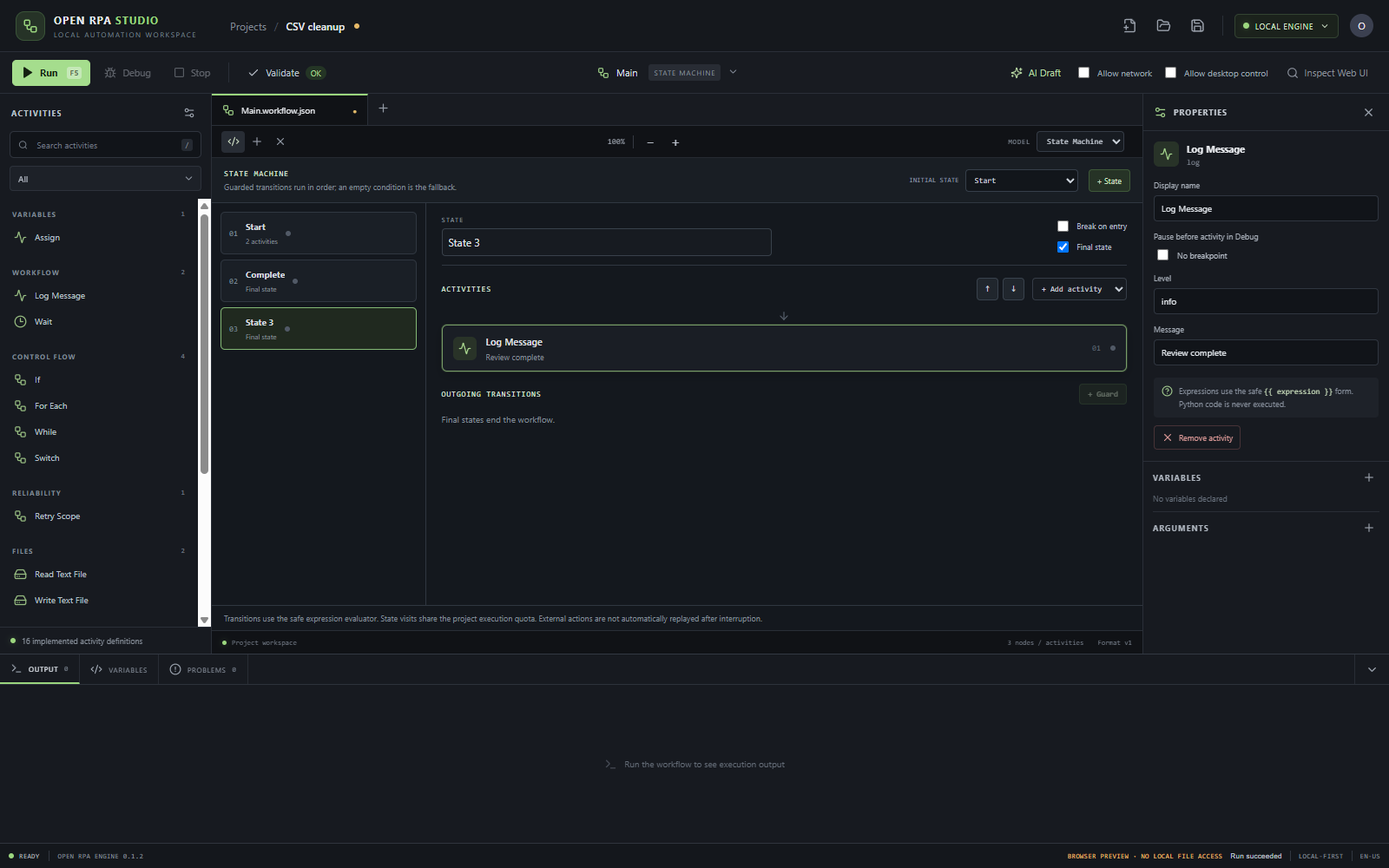
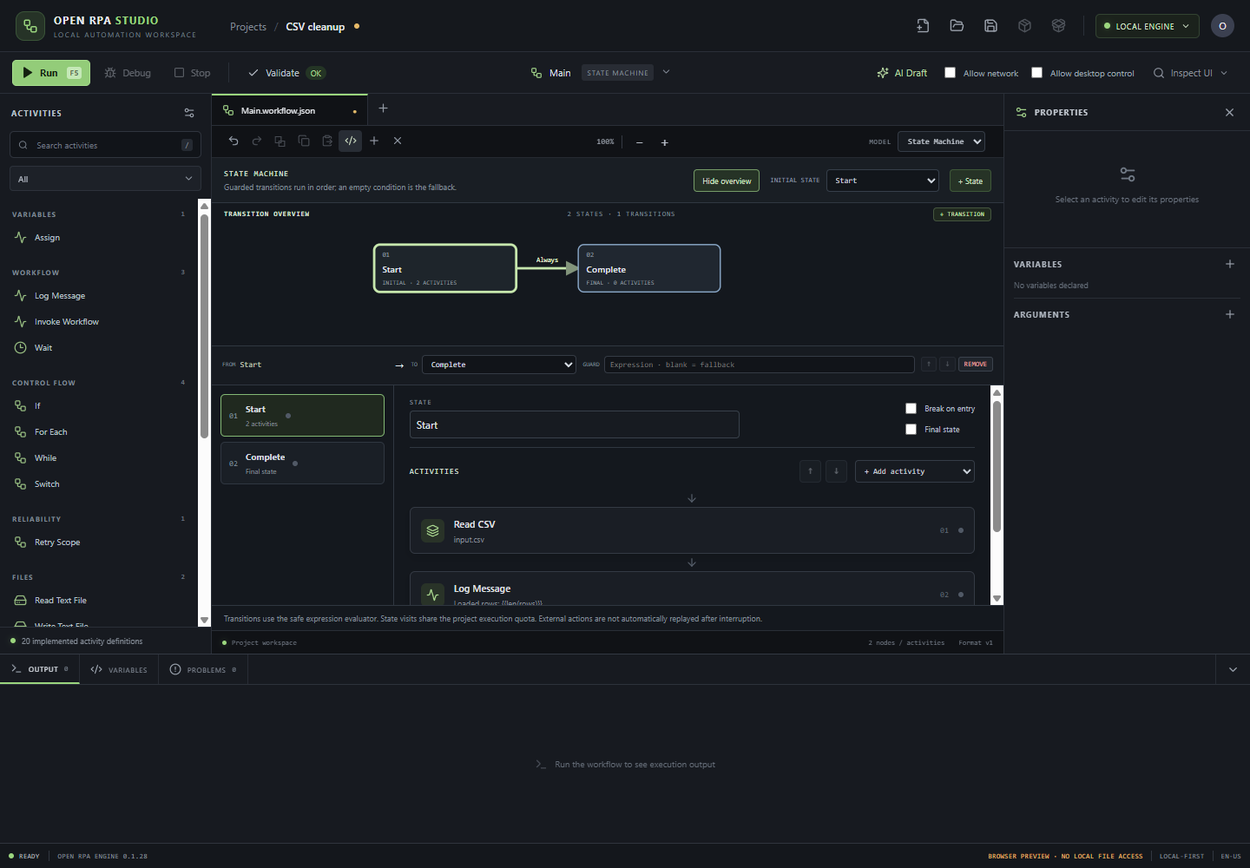
Edit state machine transitions in graph

diff --git a/src/studio/styles.css b/src/studio/styles.css
@@ -29,6 +29,8 @@
 .flowchart-minimap{position:fixed;z-index:8;right:28px;bottom:24px;width:196px;padding:8px;background:#151a20ee;border:1px solid #48535f;border-radius:7px;box-shadow:0 8px 28px #0009;backdrop-filter:blur(8px)}.flowchart-minimap-title{display:flex;justify-content:space-between;margin:0 0 6px;color:#a9d291;font:8px 'DM Mono',monospace;letter-spacing:1px}.flowchart-minimap-title span{color:#7f8995;letter-spacing:.4px}.flowchart-minimap svg{display:block;width:100%;height:112px;background-image:radial-gradient(#49515b 0.7px,transparent 0.7px);background-size:8px 8px;cursor:crosshair;outline:none}.flowchart-minimap svg:focus-visible{outline:1px solid #a9d291}.minimap-edges line{stroke:#788b70;stroke-width:9;opacity:.8}.minimap-node{fill:#39434f;stroke:#82909e;stroke-width:3}.minimap-node.start{fill:#416447;stroke:#83c476}.minimap-node.decision{fill:#665738;stroke:#e2ba73}.minimap-node.end{fill:#3f526b;stroke:#8fa9c9}.minimap-node.selected{stroke:#d0efb7;stroke-width:6}.minimap-viewport{fill:#94c67d19;stroke:#c4e6aa;stroke-width:5;pointer-events:none}
 .state-machine-overview{height:154px;min-height:120px;flex:none;display:flex;flex-direction:column;background:#14181e;border-bottom:1px solid #303741}.state-machine-overview-head{height:25px;flex:none;display:flex;align-items:center;justify-content:space-between;padding:0 14px;color:#d7e1d4;font:8px 'DM Mono',monospace;letter-spacing:.8px}.state-machine-overview-head span{color:#7f8995}.state-machine-overview-viewport{flex:1;min-height:0;overflow:auto;padding:4px 12px 9px}.state-machine-overview svg{display:block;width:100%;height:100%;min-height:105px}.state-map-edge path{fill:none;stroke:#71856c;stroke-width:2}.state-map-edge text{fill:#a3ad9e;font:8px 'DM Mono',monospace;text-anchor:middle}.state-map-edge title{fill:#dfe4ea}.state-map-node{cursor:pointer;outline:none}.state-map-node rect{fill:#1e252b;stroke:#505c67;stroke-width:1.5}.state-map-node.initial rect{stroke:#86b779}.state-map-node.final rect{fill:#202730;stroke:#8ba9ca}.state-map-node.selected rect,.state-map-node:focus-visible rect{stroke:#c7e7ad;stroke-width:3}.state-map-node.succeeded rect{fill:#24352a}.state-map-node.failed rect{fill:#3b2628;stroke:#d87f7f}.state-map-node.running rect{stroke:#e3c47c}.state-map-number{fill:#86929e;font:8px 'DM Mono',monospace}.state-map-label{fill:#e0e5eb;font-size:11px;font-weight:600}.state-map-meta{fill:#8b969f;font:7px 'DM Mono',monospace;letter-spacing:.3px}.state-map-toggle[aria-pressed="true"]{border-color:#769c68;color:#cfe3c6}
 .run-review-modal{width:min(720px,96vw);max-height:90vh;display:flex;flex-direction:column;overflow:hidden;background:#191d24;border:1px solid #3a414c;border-radius:9px;box-shadow:0 22px 80px #0009;padding:18px}.run-review-modal>header{display:flex;align-items:center;justify-content:space-between;flex:none}.run-review-modal>header>div{display:flex;align-items:center;gap:9px;color:#e6c57f;font-size:13px}.run-review-summary{display:flex;align-items:center;justify-content:space-between;background:#14171c;border:1px solid #303741;border-radius:5px;padding:10px 12px;margin-bottom:8px}.run-review-summary strong{color:#e4e8ed;font-size:11px}.run-review-summary span{font:9px 'DM Mono',monospace;color:#929ba7}.run-grant{display:flex;align-items:flex-start;gap:10px;padding:10px 12px;margin:4px 0;background:#20261f;border:1px solid #3d5538;border-radius:5px;cursor:pointer}.run-grant input{accent-color:#9bd67e;margin-top:2px}.run-grant span{display:grid;gap:4px}.run-grant strong{font-size:10px;color:#d9e8d2}.run-grant small{font-size:9px;color:#9da99a;line-height:1.5}.run-review-warning{display:flex;align-items:center;gap:8px;background:#382c1d;border:1px solid #71572f;color:#f1cf8e;padding:9px 11px;margin:5px 0;border-radius:5px;font-size:9px}.run-action-list{overflow:auto;min-height:100px;flex:1;border-top:1px solid #303741;margin-top:8px}.run-action{display:grid;grid-template-columns:76px minmax(0,1fr) minmax(70px,auto);align-items:center;gap:10px;padding:8px 5px;border-bottom:1px solid #2b3038}.run-action>div{min-width:0;display:grid;gap:4px}.run-action strong{display:grid;gap:3px;font-size:10px;color:#d8dee6}.run-action-scope{font:8px 'DM Mono',monospace;color:#75808d}.run-action code{font:8px 'DM Mono',monospace;color:#a4adb8;overflow-wrap:anywhere}.run-action>small{font:8px 'DM Mono',monospace;color:#75808d;overflow-wrap:anywhere}.run-risk{font:8px 'DM Mono',monospace;letter-spacing:.5px;color:#9ca8b5}.risk-write .run-risk{color:#e7bd70}.risk-external .run-risk{color:#e7a57b}.risk-destructive .run-risk{color:#ff8f8f}.run-safe-empty{display:flex;align-items:center;justify-content:center;gap:8px;min-height:100px;color:#a9d595;font-size:10px}.run-review-modal>footer{display:flex;justify-content:flex-end;gap:8px;margin-top:12px;border-top:1px solid #2b3038;padding-top:12px;flex:none}
+
+.state-machine-overview.has-selected-edge{height:210px}.state-map-add-transition{background:#20291f;border:1px solid #45563f;border-radius:4px;color:#c8e4b8;padding:3px 7px;font:7px 'DM Mono',monospace;letter-spacing:.4px;cursor:pointer}.state-map-add-transition:disabled{opacity:.45;cursor:not-allowed}.state-map-edge{cursor:pointer;outline:none}.state-map-edge path{transition:stroke .12s,stroke-width .12s}.state-map-edge .state-map-edge-hit{stroke:transparent;stroke-width:16;pointer-events:stroke}.state-map-edge text{pointer-events:none}.state-map-edge.selected path:not(.state-map-edge-hit),.state-map-edge:focus-visible path:not(.state-map-edge-hit){stroke:#c5e5ad;stroke-width:3}.state-map-edge.selected text,.state-map-edge:focus-visible text{fill:#e4f4d7}.state-map-transition-editor{display:grid;grid-template-columns:minmax(70px,1fr) 12px minmax(100px,1fr) minmax(150px,2fr) auto;align-items:center;gap:7px;padding:5px 12px 8px;background:#171b21;border-top:1px solid #303741;min-height:45px}.state-map-transition-editor>label{display:flex;align-items:center;gap:5px;min-width:0;color:#7f8995;font:7px 'DM Mono',monospace}.state-map-transition-editor>label strong{overflow:hidden;text-overflow:ellipsis;white-space:nowrap;color:#c5d0bd;font:9px 'DM Mono',monospace}.state-map-transition-editor select,.state-map-transition-editor input{min-width:0;width:100%;background:#111419;color:#d9dfe6;border:1px solid #353b45;border-radius:4px;padding:4px 6px;font:9px 'DM Mono',monospace}.state-map-transition-editor .state-map-edge-actions{display:flex;gap:3px}.state-map-edge-actions button{background:#20252c;border:1px solid #3b424d;border-radius:3px;color:#aeb8c2;padding:3px 6px;font:8px 'DM Mono',monospace}.state-map-edge-actions button:disabled{opacity:.4}.state-map-edge-actions button:last-child{color:#e5a2a0}.state-map-edge-actions button:focus-visible,.state-map-transition-editor select:focus-visible,.state-map-transition-editor input:focus-visible,.state-map-add-transition:focus-visible{outline:1px solid #c5e5ad;outline-offset:1px}
 .ai-repair-row{display:flex;align-items:center;gap:10px;flex-wrap:wrap;margin:8px 0}.ai-repair-row small{color:var(--muted,#8b93a5);font-size:11px}
 .run-history-view{height:100%;min-height:0;display:grid;grid-template-columns:minmax(220px,30%) minmax(0,1fr);overflow:hidden}.run-history-list{min-height:0;overflow:auto;border-right:1px solid #303640}.run-history-list>button{width:100%;min-height:42px;display:flex;align-items:center;gap:8px;padding:5px 9px;border:0;border-bottom:1px solid #252a32;background:transparent;color:#cbd0d9;text-align:left}.run-history-list>button:hover,.run-history-list>button.selected{background:#242a32}.run-history-primary{min-width:0;flex:1;display:flex;flex-direction:column;gap:3px}.run-history-primary strong{font-size:9px;overflow:hidden;text-overflow:ellipsis;white-space:nowrap}.run-history-primary small{font-size:8px;color:#78818e}.run-history-list>button code{font-size:8px;color:#8b94a1}.run-status-dot{width:7px;height:7px;flex:none;border-radius:50%;background:#89919b}.run-status-dot.success{background:#8bcf74}.run-status-dot.failed{background:#f17d78}.run-status-dot.interrupted{background:#f0b852}.run-status-dot.cancelled{background:#9ca6bb}.run-history-detail{min-width:0;min-height:0;overflow:auto;padding:8px 11px;color:#c9ced7}.run-detail-heading{display:flex;justify-content:space-between;align-items:flex-start;gap:12px;padding:2px 0 8px;border-bottom:1px solid #303640}.run-detail-heading>div{display:flex;align-items:center;gap:9px;min-width:0}.run-detail-heading>div>strong{font-size:10px;overflow:hidden;text-overflow:ellipsis}.run-detail-heading>small{font-size:8px;color:#858e9b;text-align:right}.run-status-pill{font:8px 'DM Mono',monospace;padding:3px 5px;border-radius:3px;background:#343a43;color:#c9ced7}.run-status-pill.success{background:#253b2c;color:#a6df95}.run-status-pill.failed{background:#482b2c;color:#ffaaa5}.run-status-pill.interrupted{background:#493c25;color:#ffd37d}.run-status-pill.cancelled{background:#303749;color:#c2cce0}.run-recovery-warning,.run-detail-error{margin:7px 0;padding:8px;display:flex;align-items:flex-start;gap:8px;border-radius:4px;font-size:9px;line-height:1.45}.run-recovery-warning{background:#3a3021;color:#f3d49a}.run-recovery-warning svg{flex:none}.run-recovery-warning span{display:flex;flex-direction:column;gap:3px}.run-detail-error{background:#3a2528;color:#f3c4c2;flex-direction:column}.run-detail-meta{display:flex;justify-content:space-between;gap:12px;margin:7px 0;color:#89929e;font-size:8px}.run-detail-meta>span{display:flex;align-items:center;gap:4px}.run-detail-meta code{color:#aeb8c7}.run-activity-list{border-block:1px solid #2d333d;padding:3px 0}.run-activity-row{min-height:22px;display:flex;align-items:center;gap:8px;font:8px 'DM Mono',monospace;color:#aab2bf}.run-activity-row strong{color:#d4d8df}.run-activity-row code{color:#8993a1}.run-activity-row>span:last-of-type{margin-left:auto}.run-activity-row small{flex-basis:100%;color:#ffaaa5}.run-event-list{padding-top:4px}.run-event-row{min-height:19px;display:grid;grid-template-columns:125px 130px minmax(85px,140px) minmax(0,1fr);align-items:center;gap:7px;font:8px 'DM Mono',monospace;color:#8f98a4}.run-event-row time,.run-event-row code{overflow:hidden;text-overflow:ellipsis;white-space:nowrap}.run-event-row strong{color:#bec5ce;font-weight:500}.run-event-row span{overflow:hidden;text-overflow:ellipsis;white-space:nowrap}.run-event-row.failed strong,.run-event-row.failed span{color:#f3a09a}.run-recovery-footnote{margin-top:7px;color:#c9ad74;font-size:8px;line-height:1.4}.run-history-empty{height:100%;display:flex;align-items:center;justify-content:center;gap:7px;color:#6f7885;font-size:9px}.spin{animation:history-spin 1s linear infinite}@keyframes history-spin{to{transform:rotate(360deg)}}
 .debug-watches{margin:8px 12px 12px;border:1px solid #333a45;border-radius:4px;background:#1a1e24}.debug-watches>header{display:flex;align-items:center;justify-content:space-between;gap:8px;padding:7px 9px;border-bottom:1px solid #2d333d}.debug-watches>header>div{display:flex;align-items:center;gap:6px;color:#c7d0dc;font-size:8px;letter-spacing:.7px}.debug-watches>header>div svg{color:#a8d993}.debug-watches>header>div span{color:#7e8997}.debug-watches>header>small,.watch-privacy{color:#7e8794;font-size:8px}.debug-watches>form{display:flex;gap:6px;padding:7px 8px 4px}.debug-watches>form input{flex:1;min-width:0;background:#12151a;border:1px solid #3a424e;border-radius:3px;color:#d8dde5;padding:5px 7px;font:9px 'DM Mono',monospace}.debug-watches>form button:disabled{opacity:.4}.watch-privacy{display:block;padding:0 9px 7px}.watch-list{border-top:1px solid #2d333d}.watch-row{min-height:25px;display:grid;grid-template-columns:minmax(120px,35%) minmax(0,1fr) 22px;align-items:center;gap:8px;padding:3px 7px;border-bottom:1px solid #262c34;font:8px 'DM Mono',monospace}.watch-row code{color:#a8c9f0;overflow:hidden;text-overflow:ellipsis;white-space:nowrap}.watch-row span{color:#c7d0da;overflow-wrap:anywhere}.watch-row .watch-error{color:#ff9a94}.watch-row button{width:20px;height:20px}

diff --git a/src/studio/StateMachineMap.tsx b/src/studio/StateMachineMap.tsx
@@ -1,5 +1,7 @@
 import type { KeyboardEvent } from 'react';
-import type { RunResult, StateMachine } from './types';
+import { useState } from 'react';
+import type { MachineTransition, RunResult, StateMachine } from './types';
+import { addGuardedTransition, moveStateTransition, patchStateTransition, removeStateTransition } from './stateMachineEditing';
 
 type Point={x:number;y:number};
 type Layout={positions:Map<string,Point>;width:number;height:number};
@@ -29,18 +31,31 @@ function transitionGeometry(from:Point,to:Point,sourceId:string,targetId:string)
   return{d:`M ${startX} ${startY} C ${bend} ${startY}, ${bend} ${endY}, ${endX} ${endY}`,x:bend,y:(startY+endY)/2-7};
 }
 
-export function StateMachineMap({machine,selected,run,onSelect}:{machine:StateMachine;selected:string;run:RunResult|null;onSelect:(id:string)=>void}){
+export function StateMachineMap({machine,selected,run,onSelect,onChange}:{machine:StateMachine;selected:string;run:RunResult|null;onSelect:(id:string)=>void;onChange:(machine:StateMachine)=>void}){
+  const [selectedTransition,setSelectedTransition]=useState<number|null>(null);
   const layout=layoutStateMachine(machine);
   const keySelect=(event:KeyboardEvent<SVGGElement>,id:string)=>{if(event.key==='Enter'||event.key===' '){event.preventDefault();onSelect(id)}};
   const byId=new Map(machine.states.map(state=>[state.id,state]));
-  return <div className="state-machine-overview" aria-label="State machine transition overview">
-    <div className="state-machine-overview-head"><strong>TRANSITION OVERVIEW</strong><span>{machine.states.length} STATES · {machine.transitions.length} TRANSITIONS</span></div>
+  const edge=selectedTransition===null?undefined:machine.transitions[selectedTransition];
+  const selectedIndex=selectedTransition??-1;
+  const source=byId.get(selected);
+  const outgoing=machine.transitions.filter(item=>item.from===edge?.from);
+  const isFallback=Boolean(edge&&edge.condition===undefined);
+  const otherFallback=Boolean(edge&&outgoing.some(item=>item!==edge&&item.condition===undefined));
+  const changeEdge=(patch:Partial<MachineTransition>)=>{if(selectedTransition===null)return;const current=machine.transitions[selectedTransition];const next=patchStateTransition(machine,selectedTransition,patch);if(!next)return;const target=patch.to??current.to;const condition=patch.condition===undefined?current.condition:(patch.condition.trim()||undefined);const relocated=next.transitions.findIndex(item=>item.from===current.from&&item.to===target&&item.condition===condition);if(relocated>=0)setSelectedTransition(relocated);onChange(next)};
+  const addTransition=()=>{if(!source)return;const target=machine.states.find(state=>state.id!==source.id);if(!target)return;const added=addGuardedTransition(machine,source.id,target.id);if(added){onChange(added.machine);setSelectedTransition(added.index)}};
+  const deleteTransition=()=>{if(selectedTransition===null)return;const next=removeStateTransition(machine,selectedTransition);if(next)onChange(next);setSelectedTransition(null)};
+  const shiftTransition=(direction:-1|1)=>{if(selectedTransition===null)return;const next=moveStateTransition(machine,selectedTransition,direction);if(!next)return;const moved=next.transitions.findIndex(item=>item===machine.transitions[selectedTransition]);onChange(next);setSelectedTransition(moved)};
+  const keyEdge=(event:KeyboardEvent<SVGGElement>,index:number)=>{if(event.key==='Enter'||event.key===' '){event.preventDefault();setSelectedTransition(index)}};
+  return <div className={`state-machine-overview ${edge?'has-selected-edge':''}`} aria-label="State machine transition overview">
+    <div className="state-machine-overview-head"><strong>TRANSITION OVERVIEW</strong><span>{machine.states.length} STATES · {machine.transitions.length} TRANSITIONS</span><button type="button" className="state-map-add-transition" disabled={!source||source.final||machine.states.length<2} onClick={addTransition} title="Add a safe False-guarded transition from the selected state">+ TRANSITION</button></div>
     <div className="state-machine-overview-viewport"><svg role="group" aria-label="State machine graph" viewBox={`0 0 ${layout.width} ${layout.height}`} preserveAspectRatio="xMidYMid meet" style={{minWidth:`${Math.min(layout.width,860)}px`}}>
       <defs><marker id="state-map-arrow" markerWidth="7" markerHeight="7" refX="5" refY="3" orient="auto"><path d="M0,0 L0,6 L6,3 z" fill="#82947b"/></marker></defs>
-      {machine.transitions.map((edge,index)=>{const from=layout.positions.get(edge.from),to=layout.positions.get(edge.to);if(!from||!to)return null;const geometry=transitionGeometry(from,to,edge.from,edge.to);const condition=edge.condition?.trim()||'Always';return <g className="state-map-edge" key={`${edge.from}-${edge.to}-${index}`}><path d={geometry.d} markerEnd="url(#state-map-arrow)"/><text x={geometry.x} y={geometry.y}>{condition.length>22?`${condition.slice(0,20)}…`:condition}</text><title>{`${byId.get(edge.from)?.label??edge.from} → ${byId.get(edge.to)?.label??edge.to}: ${condition}`}</title></g>})}
-      {machine.states.map((state,index)=>{const point=layout.positions.get(state.id)!;const status=run?.activities?.[state.id]?.status??'idle';const isSelected=state.id===selected;return <g key={state.id} role="button" tabIndex={0} aria-label={`${state.label||state.id}${state.id===machine.initial?', initial':''}${state.final?', final':''}; ${state.activities.length} activities`} aria-pressed={isSelected} className={`state-map-node ${state.id===machine.initial?'initial':''} ${state.final?'final':''} ${isSelected?'selected':''} ${status}`} transform={`translate(${point.x} ${point.y})`} onClick={()=>onSelect(state.id)} onKeyDown={event=>keySelect(event,state.id)}>
+      {machine.transitions.map((transition,index)=>{const from=layout.positions.get(transition.from),to=layout.positions.get(transition.to);if(!from||!to)return null;const geometry=transitionGeometry(from,to,transition.from,transition.to);const condition=transition.condition?.trim()||'Always';const selectedEdge=index===selectedTransition;return <g className={`state-map-edge ${selectedEdge?'selected':''}`} key={`${transition.from}-${transition.to}-${index}`} role="button" tabIndex={0} aria-label={`Edit transition ${byId.get(transition.from)?.label??transition.from} to ${byId.get(transition.to)?.label??transition.to}; ${condition}`} aria-pressed={selectedEdge} onClick={()=>setSelectedTransition(index)} onKeyDown={event=>keyEdge(event,index)}><path className="state-map-edge-hit" d={geometry.d}/><path d={geometry.d} markerEnd="url(#state-map-arrow)"/><text x={geometry.x} y={geometry.y}>{condition.length>22?`${condition.slice(0,20)}…`:condition}</text><title>{`${byId.get(transition.from)?.label??transition.from} → ${byId.get(transition.to)?.label??transition.to}: ${condition}`}</title></g>})}
+      {machine.states.map((state,index)=>{const point=layout.positions.get(state.id)!;const status=run?.activities?.[state.id]?.status??'idle';const isSelected=state.id===selected;return <g key={state.id} role="button" tabIndex={0} aria-label={`${state.label||state.id}${state.id===machine.initial?', initial':''}${state.final?', final':''}; ${state.activities.length} activities`} aria-pressed={isSelected} className={`state-map-node ${state.id===machine.initial?'initial':''} ${state.final?'final':''} ${isSelected?'selected':''} ${status}`} transform={`translate(${point.x} ${point.y})`} onClick={()=>{setSelectedTransition(null);onSelect(state.id)}} onKeyDown={event=>keySelect(event,state.id)}>
         <rect width="174" height="58" rx="7"/><text className="state-map-number" x="10" y="15">{String(index+1).padStart(2,'0')}</text><text className="state-map-label" x="10" y="34">{(state.label||state.id).slice(0,22)}</text><text className="state-map-meta" x="10" y="49">{state.id===machine.initial?'INITIAL · ':''}{state.final?'FINAL · ':''}{state.activities.length} ACTIVITIES</text><title>{state.label||state.id}</title>
       </g>})}
     </svg></div>
+    {edge&&<div className="state-map-transition-editor" aria-label="Selected transition editor"><label>FROM <strong>{byId.get(edge.from)?.label??edge.from}</strong></label><span aria-hidden="true">→</span><label>TO <select aria-label="Selected transition destination" value={edge.to} onChange={event=>changeEdge({to:event.target.value})}>{machine.states.map(state=><option key={state.id} value={state.id}>{state.label||state.id}</option>)}</select></label><label className="state-map-condition">GUARD <input aria-label="Selected transition guard; blank means fallback" placeholder="Expression · blank = fallback" value={edge.condition??''} disabled={otherFallback} title={otherFallback?'Another fallback already exists for this state':''} onChange={event=>changeEdge({condition:event.target.value})}/></label><div className="state-map-edge-actions"><button type="button" aria-label="Move transition earlier" disabled={isFallback||!machine.transitions.slice(0,selectedIndex).some(item=>item.from===edge.from)} onClick={()=>shiftTransition(-1)}>↑</button><button type="button" aria-label="Move transition later" disabled={isFallback||!machine.transitions.slice(selectedIndex+1).some(item=>item.from===edge.from)} onClick={()=>shiftTransition(1)}>↓</button><button type="button" aria-label="Remove selected transition" onClick={deleteTransition}>REMOVE</button></div></div>}
   </div>;
 }

diff --git a/src/studio/App.tsx b/src/studio/App.tsx
@@ -153,13 +153,13 @@ function StateMachineEditor({machine,selected,run,catalog,onSelect,onChange,onAd
   const current=machine.states.find(state=>state.id===selected||findNestedActivity(state.activities,selected))??machine.states.find(state=>state.id===machine.initial)!;
   const updateState=(id:string,patch:Partial<MachineState>)=>onChange({...machine,states:machine.states.map(state=>state.id===id?{...state,...patch}:state)});
   const addState=()=>{const source=machine.states.find(state=>state.id===current.id&&!state.final)??machine.states.find(state=>!state.final);if(!source)return;const id=`state-${uid()}`;const states=[...machine.states,{id,label:`State ${machine.states.length+1}`,final:true,activities:[]}];const fallback=machine.transitions.findIndex(edge=>edge.from===source.id&&!edge.condition);const transitions=[...machine.transitions];transitions.splice(fallback<0?transitions.length:fallback,0,{from:source.id,to:id,...(fallback>=0?{condition:'False'}:{})});onChange({...machine,states,transitions});onSelect(id)};
-  const addTransition=()=>{if(current.final)return;const target=machine.states.find(state=>state.id!==current.id);if(!target)return;const fallback=machine.transitions.findIndex(edge=>edge.from===current.id&&!edge.condition);const transitions=[...machine.transitions];transitions.splice(fallback<0?transitions.length:fallback,0,{from:current.id,to:target.id,condition:'True'});onChange({...machine,transitions})};
+  const addTransition=()=>{if(current.final)return;const target=machine.states.find(state=>state.id!==current.id);if(!target)return;const fallback=machine.transitions.findIndex(edge=>edge.from===current.id&&!edge.condition);const transitions=[...machine.transitions];transitions.splice(fallback<0?transitions.length:fallback,0,{from:current.id,to:target.id,condition:'False'});onChange({...machine,transitions})};
   const patchTransition=(index:number,patch:Partial<MachineTransition>)=>{const outgoing=machine.transitions.filter(edge=>edge.from===current.id);const target=outgoing[index];if(!target)return;let seen=0;const transitions=machine.transitions.map(edge=>edge.from===current.id?(seen++===index?{...edge,...patch}:edge):edge);onChange({...machine,transitions})};
   const removeTransition=(index:number)=>{let seen=0;onChange({...machine,transitions:machine.transitions.filter(edge=>edge.from!==current.id||seen++!==index)})};
   const addToCurrentBranch=(parentId:string,branch:string,entry:CatalogEntry)=>{const activity={id:`${entry.type}-${uid()}`,type:entry.type,...structuredClone(entry.defaults)} as Activity;onChange({...machine,states:machine.states.map(state=>state.id===current.id?{...state,activities:appendNestedActivity(state.activities,parentId,branch,activity)}:state)});onSelect(activity.id)};
   const outgoing=machine.transitions.filter(edge=>edge.from===current.id);
   return <div className="state-machine-editor"><div className="state-machine-toolbar"><div><strong>STATE MACHINE</strong><span>Guarded transitions run in order; an empty condition is the fallback.</span></div><button className="state-map-toggle" aria-pressed={showOverview} onClick={()=>setShowOverview(value=>!value)}>{showOverview?'Hide overview':'Show overview'}</button><label>INITIAL STATE<select aria-label="Initial state" value={machine.initial} onChange={event=>onChange({...machine,initial:event.target.value})}>{machine.states.map(state=><option key={state.id} value={state.id}>{state.label}</option>)}</select></label><button onClick={addState} disabled={!machine.states.some(state=>!state.final)}>+ State</button></div>
-    {showOverview&&<StateMachineMap machine={machine} selected={current.id} run={run} onSelect={onSelect}/>}
+    {showOverview&&<StateMachineMap machine={machine} selected={current.id} run={run} onSelect={onSelect} onChange={onChange}/>}
     <div className="state-machine-layout"><nav className="state-list" aria-label="Workflow states">{machine.states.map((state,index)=><button key={state.id} className={`state-card ${state.id===current.id?'selected':''} ${run?.activities?.[state.id]?.status??''}`} onClick={()=>onSelect(state.id)}><span className="state-index">{String(index+1).padStart(2,'0')}</span><span><strong>{state.label||state.id}</strong><small>{state.final?'Final state':`${state.activities.length} activities`}</small></span><span className={`status-dot ${run?.activities?.[state.id]?.status??''}`}/></button>)}</nav>
     <section className="state-detail"><div className="state-detail-head"><div><span>STATE</span><input aria-label="State name" value={current.label} onChange={event=>updateState(current.id,{label:event.target.value})}/></div><div className="state-flags"><label><input type="checkbox" checked={Boolean(current.breakpoint)} onChange={event=>updateState(current.id,{breakpoint:event.target.checked})}/> Break on entry</label><label><input type="checkbox" checked={Boolean(current.final)} onChange={event=>updateState(current.id,{final:event.target.checked})}/> Final state</label></div></div>
       <div className="state-activities-head"><strong>ACTIVITIES</strong><div className="state-activity-tools"><button aria-label="Move selected state activity up" disabled={selected===current.id} onClick={()=>updateState(current.id,{activities:reorderNestedActivity(current.activities,selected,-1)})}>↑</button><button aria-label="Move selected state activity down" disabled={selected===current.id} onClick={()=>updateState(current.id,{activities:reorderNestedActivity(current.activities,selected,1)})}>↓</button><select aria-label="Add activity to selected state" defaultValue="" onChange={event=>{const entry=catalog.find(item=>item.type===event.target.value);if(entry){onSelect(current.id);onAddActivity(entry)}event.currentTarget.value=''}}><option value="">+ Add activity</option>{catalog.map(entry=><option key={entry.type} value={entry.type}>{entry.title}</option>)}</select></div></div>

diff --git a/src/studio/stateMachineEditing.ts b/src/studio/stateMachineEditing.ts
@@ -1,0 +1,53 @@
+import type { MachineTransition, StateMachine } from './types';
+
+export type TransitionEditResult={machine:StateMachine;index:number}|null;
+
+export function addGuardedTransition(machine:StateMachine,from:string,to:string):TransitionEditResult{
+  const source=machine.states.find(state=>state.id===from);
+  if(!source||source.final||!machine.states.some(state=>state.id===to))return null;
+  const transitions=[...machine.transitions];
+  const fallback=transitions.findIndex(edge=>edge.from===from&&edge.condition===undefined);
+  const sourceEdges=transitions.map((edge,index)=>edge.from===from?index:-1).filter(index=>index>=0);
+  const index=fallback>=0?fallback:(sourceEdges.at(-1)??transitions.length-1)+1;
+  transitions.splice(index,0,{from,to,condition:'False'});
+  return{machine:{...machine,transitions},index};
+}
+
+export function patchStateTransition(machine:StateMachine,index:number,patch:Partial<MachineTransition>):StateMachine|null{
+  const current=machine.transitions[index];
+  if(!current)return null;
+  if(patch.from!==undefined&&patch.from!==current.from)return null;
+  if(patch.to!==undefined&&!machine.states.some(state=>state.id===patch.to))return null;
+  const condition=patch.condition===undefined?current.condition:(patch.condition.trim()||undefined);
+  const next={...current,...patch,condition};
+  const transitions=[...machine.transitions];
+  if(condition===undefined){
+    const anotherFallback=transitions.some((edge,edgeIndex)=>edgeIndex!==index&&edge.from===current.from&&edge.condition===undefined);
+    if(anotherFallback)return null;
+    transitions.splice(index,1);
+    const sourceEdges=transitions.map((edge,edgeIndex)=>edge.from===current.from?edgeIndex:-1).filter(edgeIndex=>edgeIndex>=0);
+    const insertion=(sourceEdges.at(-1)??transitions.length-1)+1;
+    transitions.splice(insertion,0,next);
+  }else transitions[index]=next;
+  return{...machine,transitions};
+}
+
+export function removeStateTransition(machine:StateMachine,index:number):StateMachine|null{
+  if(!machine.transitions[index])return null;
+  return{...machine,transitions:machine.transitions.filter((_edge,edgeIndex)=>edgeIndex!==index)};
+}
+
+export function moveStateTransition(machine:StateMachine,index:number,direction:-1|1):StateMachine|null{
+  const current=machine.transitions[index];
+  if(!current)return null;
+  const siblings=machine.transitions.map((edge,edgeIndex)=>edge.from===current.from?edgeIndex:-1).filter(edgeIndex=>edgeIndex>=0);
+  const siblingIndex=siblings.indexOf(index);
+  const targetSibling=siblings[siblingIndex+direction];
+  if(targetSibling===undefined)return null;
+  const adjacent=machine.transitions[targetSibling];
+  if(direction===1&&adjacent.condition===undefined)return null;
+  if(direction===-1&&current.condition===undefined)return null;
+  const transitions=[...machine.transitions];
+  [transitions[index],transitions[targetSibling]]=[transitions[targetSibling],transitions[index]];
+  return{...machine,transitions};
+}

diff --git a/src/studio/stateMachineEditing.test.ts b/src/studio/stateMachineEditing.test.ts
@@ -1,0 +1,45 @@
+import { describe,expect,it } from 'vitest';
+import type { StateMachine } from './types';
+import { addGuardedTransition,moveStateTransition,patchStateTransition,removeStateTransition } from './stateMachineEditing';
+
+const machine:StateMachine={initial:'start',states:[
+  {id:'start',label:'Start',activities:[]},{id:'review',label:'Review',activities:[]},{id:'done',label:'Done',final:true,activities:[]},
+],transitions:[{from:'start',to:'review',condition:'approved'},{from:'start',to:'done'}]};
+
+describe('state-machine graph transition editing',()=>{
+  it('inserts a new safe guard before its fallback and selects its index',()=>{
+    const result=addGuardedTransition(machine,'start','done');
+    expect(result?.index).toBe(1);
+    expect(result?.machine.transitions).toEqual([
+      {from:'start',to:'review',condition:'approved'},
+      {from:'start',to:'done',condition:'False'},
+      {from:'start',to:'done'},
+    ]);
+    expect(addGuardedTransition(machine,'done','start')).toBeNull();
+    expect(addGuardedTransition(machine,'start','missing')).toBeNull();
+  });
+
+  it('edits an edge and moves a new unconditional fallback to the end',()=>{
+    expect(patchStateTransition(machine,0,{to:'done'})?.transitions[0]).toEqual({from:'start',to:'done',condition:'approved'});
+    const guardedOnly:StateMachine={...machine,transitions:[machine.transitions[0]]};
+    const changed=patchStateTransition(guardedOnly,0,{to:'done',condition:'  '});
+    expect(changed?.transitions).toEqual([
+      {from:'start',to:'done'},
+    ]);
+    expect(patchStateTransition(machine,0,{condition:''})).toBeNull();
+  });
+
+  it('moves guards within their source order but never past an unconditional fallback',()=>{
+    const withThree:StateMachine={...machine,transitions:[...machine.transitions.slice(0,1),{from:'start',to:'review',condition:'urgent'},machine.transitions[1]]};
+    expect(moveStateTransition(withThree,1,-1)?.transitions.map(edge=>edge.condition)).toEqual(['urgent','approved',undefined]);
+    expect(moveStateTransition(withThree,1,1)).toBeNull();
+    expect(moveStateTransition(withThree,2,-1)).toBeNull();
+  });
+
+  it('removes an edge without mutating the source machine',()=>{
+    const updated=removeStateTransition(machine,0);
+    expect(updated?.transitions).toEqual([{from:'start',to:'done'}]);
+    expect(machine.transitions).toHaveLength(2);
+    expect(removeStateTransition(machine,99)).toBeNull();
+  });
+});

diff --git a/docs/ROADMAP.md b/docs/ROADMAP.md
@@ -26,7 +26,7 @@
 ## Next release gates
 
 1. **Debugging completion:** workflow invocation failures now carry a bounded, redacted call path and origin workflow/activity through run results and durable history. Add durable debug checkpoints; paused variable editing and Step Out are supported at activity boundaries. Mid-activity pause remains adapter-dependent.
-2. **Visual authoring:** extend graph overview/navigation to nested workflow branches and add direct transition-edit gestures to the state-machine graph; state selection, guarded-edge display and flowchart navigation are implemented.
+2. **Visual authoring:** extend graph overview/navigation to nested workflow branches. The state-machine graph now supports selecting, adding, editing, reordering, and removing transitions; flowchart navigation and the minimap are implemented.
 3. **Automation adapters:** add editable selector healing and broaden accessibility acceptance across GTK, Qt, WPF, Win32, WinForms and packaged-app targets. Browser waits/assertions and bounded browser interaction recording are implemented.
 4. **Security:** signed plugin metadata, dependency/SBOM scans, adversarial package and egress tests, threat-model review, safe package verification.
 5. **Distribution:** Windows x64 per-user NSIS installer now builds and installs in a workspace-local smoke test, with a bundled Python engine and no-console child process. Still verify on a clean Windows machine; sign binaries; test upgrades, uninstall and WebView2 bootstrap behavior; produce Linux AppImage/deb on a supported Linux build host.

diff --git a/README.md b/README.md
@@ -12,6 +12,10 @@ This repository contains the editor, the versioned workflow format, a separate P
 
 *State-machine overview nodes are generated from the executable state and transition definitions. Select a node to edit that state's activities and guards.*
 
+![Open RPA Studio state-machine graph with a selected transition and inline guard and destination editor](docs/assets/state-machine-editor.png)
+
+*Select a transition edge to edit its destination or guard, reorder guarded routes, remove it, or add a new safe False-guarded route. Blank guards represent the fallback and remain last.*
+
 Execution history now opens full saved run records with activity durations, event timestamps, workflow digests, errors and clear interruption warnings. Interrupted runs are inspectable and are never silently replayed.
 
 The AI drafting panel can also prepare a workflow repair from the latest failed run. It excludes runtime variable values, argument defaults and raw error text from the repair prompt, then requires validation and review before replacing the current workflow. Remote providers may receive configured literals from the workflow.

diff --git a/CHANGELOG.md b/CHANGELOG.md
@@ -1,6 +1,9 @@
 # Changelog
 ## Unreleased
 
+- State-machine graph edges are now directly editable: select an edge to change its destination or guard, reorder guarded routes, remove it, or add a new safe `False`-guarded route. Blank guards remain the final fallback, and duplicate fallbacks are rejected. Added regression tests and a public README screenshot of the actual editor.
+- Verification: all 62 frontend tests pass; TypeScript and the production Vite build pass; `git diff --check` passes. Screenshot captured from the live browser preview.
+
 - Added request-ID-scoped AI draft cancellation across Studio, the native bridge and provider HTTP transports. Cancellation interrupts socket waits and discards late results; requests already received by a provider may continue server-side.
 - Verification: the native-bridge cancellation regression, 169 Python tests, 58 frontend tests and the production Vite build pass.
 
